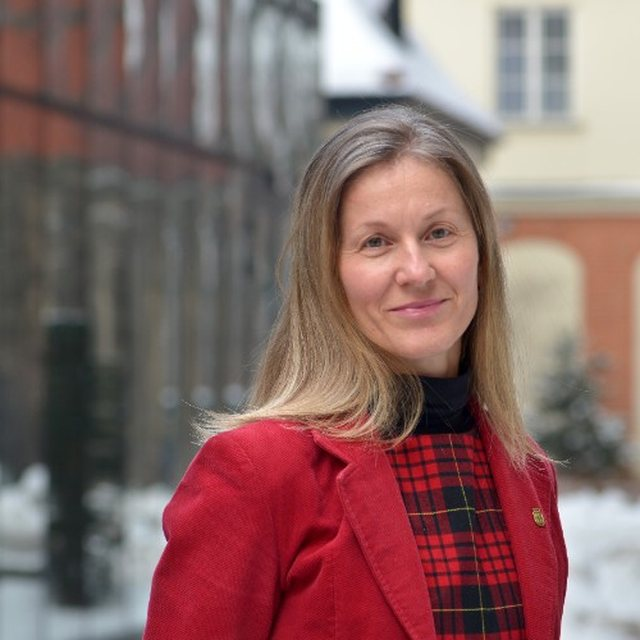
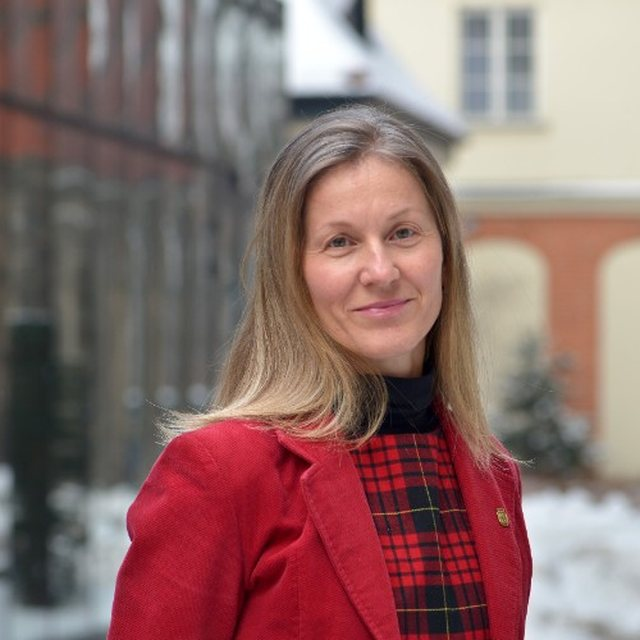
Center two portraits and add Aleksandra Szewczyk from Foton-OZE.

diff --git a/js/search-index.js b/js/search-index.js
@@ -1,1 +1,1 @@
-window.LIGHT_INDEX = [{"lang": "pl", "title": "LIGHT", "text": "Strona główna projektu", "url": "index.html"}, {"lang": "pl", "title": "O projekcie", "text": "Wyzwania, rozwiązanie, dane, budżet, czas trwania", "url": "o-projekcie.html"}, {"lang": "pl", "title": "Laboratoria miejskie", "text": "Kartuzy Lund Innsbruck", "url": "laboratoria.html"}, {"lang": "pl", "title": "Kartuzy", "text": "Renowacja energetyczna błękitno-zielona infrastruktura", "url": "laboratorium-kartuzy.html"}, {"lang": "pl", "title": "Lund", "text": "Zagęszczanie energia rozwiązania bezemisyjne", "url": "laboratorium-lund.html"}, {"lang": "pl", "title": "Innsbruck", "text": "Wirtualne laboratorium światło dzienne hałas powietrze", "url": "laboratorium-innsbruck.html"}, {"lang": "pl", "title": "Aktualności", "text": "Spotkania badania warsztaty rezultaty Lund Martigny inauguracja", "url": "aktualnosci.html"}, {"lang": "pl", "title": "Spotkanie konsorcjum w Lund", "text": "27–30 września 2026 DALEC Lund", "url": "aktualnosci/lund.html"}, {"lang": "pl", "title": "Drony i model 3D Martigny", "text": "fotogrametria IDIAP Roman Ruczyński Nikodem Derengowski", "url": "aktualnosci/martigny.html"}, {"lang": "pl", "title": "PG inauguruje projekt LIGHT", "text": "10 lutego 2026 inauguracja Wydział Architektury Mikielewicz Szczepański Krośnicka NCBR DUT", "url": "aktualnosci/inauguracja.html"}, {"lang": "pl", "title": "Relacje ze spotkań konsorcjum", "text": "Przykładowy wpis spotkania partnerzy", "url": "aktualnosci/spotkania.html"}, {"lang": "pl", "title": "Badania w terenie i wizyty studyjne", "text": "Przykładowy wpis Kartuzy Lund", "url": "aktualnosci/badania.html"}, {"lang": "pl", "title": "Warsztaty i udział mieszkańców", "text": "Przykładowy wpis samorząd społeczność", "url": "aktualnosci/warsztaty.html"}, {"lang": "pl", "title": "Postępy prac nad narzędziami cyfrowymi", "text": "CitySim DALEC światło komfort", "url": "aktualnosci/narzedzia.html"}, {"lang": "pl", "title": "Rezultaty i narzędzia", "text": "Wytyczne CitySim DALEC oś czasu", "url": "rezultaty.html"}, {"lang": "pl", "title": "Do pobrania", "text": "Raporty wytyczne prezentacje materiały", "url": "do-pobrania.html"}, {"lang": "pl", "title": "Partnerzy", "text": "Konsorcjum Politechnika Gdańska Idiap Lund Innsbruck", "url": "partnerzy.html"}, {"lang": "pl", "title": "Zespół", "text": "Justyna Martyniuk-Pęczek Dubon Rodrigue Marie-Claude Dubois Jérôme Kämpf Olga Martyniuk Natalia Sokół Maciej Tankiewicz Przemysław Kluz David Geisler-Moroder Nikodem Derengowski Roman Ruczyński Izabela Mironowicz Anna Zackiewicz Niko Gentile Natalia Lekner Anna Wojewnik-Filipkowska Ewa Patyk Aleksandra Koszarek-Cyra", "url": "zespol.html"}, {"lang": "pl", "title": "Kontakt", "text": "Justyna Martyniuk-Pęczek juspecze@pg.edu.pl", "url": "kontakt.html"}, {"lang": "en", "title": "LIGHT", "text": "Project home", "url": "en/index.html"}, {"lang": "en", "title": "About the project", "text": "Challenges solution facts budget duration", "url": "en/about.html"}, {"lang": "en", "title": "Living labs", "text": "Kartuzy Lund Innsbruck", "url": "en/living-labs.html"}, {"lang": "en", "title": "Kartuzy", "text": "Energy renovation blue-green infrastructure", "url": "en/lab-kartuzy.html"}, {"lang": "en", "title": "Lund", "text": "Densification energy zero-emission", "url": "en/lab-lund.html"}, {"lang": "en", "title": "Innsbruck", "text": "Virtual living lab daylight noise air", "url": "en/lab-innsbruck.html"}, {"lang": "en", "title": "News", "text": "Meetings fieldwork workshops results Lund Martigny launch", "url": "en/news.html"}, {"lang": "en", "title": "Consortium meeting in Lund", "text": "27–30 September 2026 DALEC Lund", "url": "en/news/lund.html"}, {"lang": "en", "title": "Drones and a 3D model of Martigny", "text": "photogrammetry Idiap Roman Ruczyński Nikodem Derengowski", "url": "en/news/martigny.html"}, {"lang": "en", "title": "Gdańsk Tech launches LIGHT", "text": "10 February 2026 inauguration Faculty of Architecture Mikielewicz Szczepański Krośnicka NCBR DUT", "url": "en/news/inauguration.html"}, {"lang": "en", "title": "Consortium meetings", "text": "Sample story partners", "url": "en/news/meetings.html"}, {"lang": "en", "title": "Fieldwork and study visits", "text": "Sample story Kartuzy Lund", "url": "en/news/fieldwork.html"}, {"lang": "en", "title": "Workshops and residents", "text": "Sample story community", "url": "en/news/workshops.html"}, {"lang": "en", "title": "Progress on the digital tools", "text": "CitySim DALEC daylight comfort", "url": "en/news/tools.html"}, {"lang": "en", "title": "Results and tools", "text": "Guidelines CitySim DALEC timeline", "url": "en/results.html"}, {"lang": "en", "title": "Downloads", "text": "Reports guidelines slides graphics", "url": "en/downloads.html"}, {"lang": "en", "title": "Partners", "text": "Consortium Gdańsk Tech Idiap Lund Innsbruck", "url": "en/partners.html"}, {"lang": "en", "title": "Team", "text": "Justyna Martyniuk-Pęczek Dubon Rodrigue Marie-Claude Dubois Jérôme Kämpf Olga Martyniuk Natalia Sokół Maciej Tankiewicz Przemysław Kluz David Geisler-Moroder Nikodem Derengowski Roman Ruczyński Izabela Mironowicz Anna Zackiewicz Niko Gentile Natalia Lekner Anna Wojewnik-Filipkowska Ewa Patyk Aleksandra Koszarek-Cyra", "url": "en/team.html"}, {"lang": "en", "title": "Contact", "text": "Justyna Martyniuk-Pęczek juspecze@pg.edu.pl", "url": "en/contact.html"}];
+window.LIGHT_INDEX = [{"lang": "pl", "title": "LIGHT", "text": "Strona główna projektu", "url": "index.html"}, {"lang": "pl", "title": "O projekcie", "text": "Wyzwania, rozwiązanie, dane, budżet, czas trwania", "url": "o-projekcie.html"}, {"lang": "pl", "title": "Laboratoria miejskie", "text": "Kartuzy Lund Innsbruck", "url": "laboratoria.html"}, {"lang": "pl", "title": "Kartuzy", "text": "Renowacja energetyczna błękitno-zielona infrastruktura", "url": "laboratorium-kartuzy.html"}, {"lang": "pl", "title": "Lund", "text": "Zagęszczanie energia rozwiązania bezemisyjne", "url": "laboratorium-lund.html"}, {"lang": "pl", "title": "Innsbruck", "text": "Wirtualne laboratorium światło dzienne hałas powietrze", "url": "laboratorium-innsbruck.html"}, {"lang": "pl", "title": "Aktualności", "text": "Spotkania badania warsztaty rezultaty Lund Martigny inauguracja", "url": "aktualnosci.html"}, {"lang": "pl", "title": "Spotkanie konsorcjum w Lund", "text": "27–30 września 2026 DALEC Lund", "url": "aktualnosci/lund.html"}, {"lang": "pl", "title": "Drony i model 3D Martigny", "text": "fotogrametria IDIAP Roman Ruczyński Nikodem Derengowski", "url": "aktualnosci/martigny.html"}, {"lang": "pl", "title": "PG inauguruje projekt LIGHT", "text": "10 lutego 2026 inauguracja Wydział Architektury Mikielewicz Szczepański Krośnicka NCBR DUT", "url": "aktualnosci/inauguracja.html"}, {"lang": "pl", "title": "Relacje ze spotkań konsorcjum", "text": "Przykładowy wpis spotkania partnerzy", "url": "aktualnosci/spotkania.html"}, {"lang": "pl", "title": "Badania w terenie i wizyty studyjne", "text": "Przykładowy wpis Kartuzy Lund", "url": "aktualnosci/badania.html"}, {"lang": "pl", "title": "Warsztaty i udział mieszkańców", "text": "Przykładowy wpis samorząd społeczność", "url": "aktualnosci/warsztaty.html"}, {"lang": "pl", "title": "Postępy prac nad narzędziami cyfrowymi", "text": "CitySim DALEC światło komfort", "url": "aktualnosci/narzedzia.html"}, {"lang": "pl", "title": "Rezultaty i narzędzia", "text": "Wytyczne CitySim DALEC oś czasu", "url": "rezultaty.html"}, {"lang": "pl", "title": "Do pobrania", "text": "Raporty wytyczne prezentacje materiały", "url": "do-pobrania.html"}, {"lang": "pl", "title": "Partnerzy", "text": "Konsorcjum Politechnika Gdańska Idiap Lund Innsbruck", "url": "partnerzy.html"}, {"lang": "pl", "title": "Zespół", "text": "Justyna Martyniuk-Pęczek Dubon Rodrigue Marie-Claude Dubois Jérôme Kämpf Olga Martyniuk Natalia Sokół Maciej Tankiewicz Przemysław Kluz David Geisler-Moroder Nikodem Derengowski Roman Ruczyński Izabela Mironowicz Anna Zackiewicz Niko Gentile Natalia Lekner Anna Wojewnik-Filipkowska Ewa Patyk Aleksandra Koszarek-Cyra Aleksandra Szewczyk", "url": "zespol.html"}, {"lang": "pl", "title": "Kontakt", "text": "Justyna Martyniuk-Pęczek juspecze@pg.edu.pl", "url": "kontakt.html"}, {"lang": "en", "title": "LIGHT", "text": "Project home", "url": "en/index.html"}, {"lang": "en", "title": "About the project", "text": "Challenges solution facts budget duration", "url": "en/about.html"}, {"lang": "en", "title": "Living labs", "text": "Kartuzy Lund Innsbruck", "url": "en/living-labs.html"}, {"lang": "en", "title": "Kartuzy", "text": "Energy renovation blue-green infrastructure", "url": "en/lab-kartuzy.html"}, {"lang": "en", "title": "Lund", "text": "Densification energy zero-emission", "url": "en/lab-lund.html"}, {"lang": "en", "title": "Innsbruck", "text": "Virtual living lab daylight noise air", "url": "en/lab-innsbruck.html"}, {"lang": "en", "title": "News", "text": "Meetings fieldwork workshops results Lund Martigny launch", "url": "en/news.html"}, {"lang": "en", "title": "Consortium meeting in Lund", "text": "27–30 September 2026 DALEC Lund", "url": "en/news/lund.html"}, {"lang": "en", "title": "Drones and a 3D model of Martigny", "text": "photogrammetry Idiap Roman Ruczyński Nikodem Derengowski", "url": "en/news/martigny.html"}, {"lang": "en", "title": "Gdańsk Tech launches LIGHT", "text": "10 February 2026 inauguration Faculty of Architecture Mikielewicz Szczepański Krośnicka NCBR DUT", "url": "en/news/inauguration.html"}, {"lang": "en", "title": "Consortium meetings", "text": "Sample story partners", "url": "en/news/meetings.html"}, {"lang": "en", "title": "Fieldwork and study visits", "text": "Sample story Kartuzy Lund", "url": "en/news/fieldwork.html"}, {"lang": "en", "title": "Workshops and residents", "text": "Sample story community", "url": "en/news/workshops.html"}, {"lang": "en", "title": "Progress on the digital tools", "text": "CitySim DALEC daylight comfort", "url": "en/news/tools.html"}, {"lang": "en", "title": "Results and tools", "text": "Guidelines CitySim DALEC timeline", "url": "en/results.html"}, {"lang": "en", "title": "Downloads", "text": "Reports guidelines slides graphics", "url": "en/downloads.html"}, {"lang": "en", "title": "Partners", "text": "Consortium Gdańsk Tech Idiap Lund Innsbruck", "url": "en/partners.html"}, {"lang": "en", "title": "Team", "text": "Justyna Martyniuk-Pęczek Dubon Rodrigue Marie-Claude Dubois Jérôme Kämpf Olga Martyniuk Natalia Sokół Maciej Tankiewicz Przemysław Kluz David Geisler-Moroder Nikodem Derengowski Roman Ruczyński Izabela Mironowicz Anna Zackiewicz Niko Gentile Natalia Lekner Anna Wojewnik-Filipkowska Ewa Patyk Aleksandra Koszarek-Cyra Aleksandra Szewczyk", "url": "en/team.html"}, {"lang": "en", "title": "Contact", "text": "Justyna Martyniuk-Pęczek juspecze@pg.edu.pl", "url": "en/contact.html"}];

diff --git a/zespol.html b/zespol.html
@@ -65,7 +65,7 @@
   </header>
   <nav class="crumbs" aria-label="Ścieżka"><div class="wrap"><ol><li><a href="index.html">LIGHT</a></li><li>Zespół</li></ol></div></nav>
   <div class="wrap page-title"><h1>Zespół</h1></div>
-  <div class="wrap"><article class="prose" id="tresc"><ul class="team-list"><li class="team-card"><img class="avatar" src="img/team/marie-claude-dubois.jpg" alt=""><div><h2><a href="https://portal.research.lu.se/en/persons/marie-claude-dubois/">dr inż. Marie-Claude Dubois</a></h2><p class="org">Uniwersytet w Lund</p></div></li><li class="team-card"><img class="avatar" src="img/team/jerome-kampf.jpg" alt=""><div><h2><a href="https://www.idiap.ch/~jkaempf/">prof. dr inż. Jérôme Kämpf</a></h2><p class="org">Idiap Research Institute</p></div></li><li class="team-card"><img class="avatar" src="img/team/justyna-martyniuk-peczek.jpg" alt=""><div><h2><a href="https://pg.edu.pl/p/justyna-martyniuk-peczek-19369">prof. dr hab. inż. arch. Justyna Martyniuk-Pęczek</a></h2><p class="org">Politechnika Gdańska</p></div></li><li class="team-card"><span class="avatar" aria-hidden="true">IM</span><div><h2><a href="https://pg.edu.pl/p/izabela-mironowicz-880097">dr hab. inż. arch. Izabela Mironowicz, prof. uczelni</a></h2><p class="org">Politechnika Gdańska</p></div></li><li class="team-card"><img class="avatar" src="img/team/maciej-tankiewicz.jpg" alt=""><div><h2><a href="https://informator.gumed.edu.pl/259">dr hab. inż. Maciej Tankiewicz, prof. uczelni</a></h2><p class="org">Gdański Uniwersytet Medyczny</p></div></li><li class="team-card"><img class="avatar" src="img/team/anna-wojewnik-filipkowska.jpg" alt=""><div><h2><a href="https://sd.ug.edu.pl/node/791">dr hab. Anna Wojewnik-Filipkowska, prof. UG</a></h2><p class="org">Uniwersytet Gdański</p></div></li><li class="team-card"><img class="avatar" src="img/team/nikodem-derengowski.jpg" alt=""><div><h2><a href="https://orcid.org/0009-0001-9071-8010">dr inż. Nikodem Derengowski</a></h2><p class="org">Politechnika Gdańska</p></div></li><li class="team-card"><img class="avatar" src="img/team/david-geisler-moroder.jpg" alt=""><div><h2><a href="https://www.uibk.ac.at/en/energy-efficient-building/about-us/staff/david-geisler-moroder/">dr inż. David Geisler-Moroder</a></h2><p class="org">Uniwersytet w Innsbrucku</p></div></li><li class="team-card"><span class="avatar" aria-hidden="true">NG</span><div><h2><a href="https://portal.research.lu.se/en/persons/niko-gentile/">dr inż. Niko Gentile</a></h2><p class="org">Uniwersytet w Lund</p></div></li><li class="team-card"><img class="avatar" src="img/team/aleksandra-koszarek-cyra.jpg" alt=""><div><h2><a href="https://old.wzr.ug.edu.pl/wydzial/index.php?prac=845&str=121">dr inż. Aleksandra Koszarek-Cyra</a></h2><p class="org">Uniwersytet Gdański</p></div></li><li class="team-card"><img class="avatar" src="img/team/olga-martyniuk.jpg" alt=""><div><h2><a href="https://repozytorium.bg.ug.edu.pl/info/author/UOG445c047d26c8486ba9cb9ef938330fe3/">dr Olga Martyniuk</a></h2><p class="org">Uniwersytet Gdański</p></div></li><li class="team-card"><img class="avatar" src="img/team/dubon-rodrigue.jpg" alt=""><div><h2><a href="https://www.idiap.ch/en/people/dubon-rodrigue-2064">dr inż. Dubon Rodrigue</a></h2><p class="org">Idiap Research Institute</p></div></li><li class="team-card"><img class="avatar" src="img/team/roman-ruczynski.jpg" alt=""><div><h2><a href="https://pg.edu.pl/p/roman-ruczynski-8644">dr inż. arch. Roman Ruczyński</a></h2><p class="org">Politechnika Gdańska</p></div></li><li class="team-card"><img class="avatar" src="img/team/natalia-sokol.jpg" alt=""><div><h2><a href="https://pg.edu.pl/p/natalia-sokol-944955">dr inż. Natalia Sokół</a></h2><p class="org">Politechnika Gdańska</p></div></li><li class="team-card"><img class="avatar" src="img/team/przemyslaw-kluz.jpg" alt=""><div><h2><a href="https://www.kongresobywatelski.pl/osoby/kluz-przemyslaw/">Przemysław Kluz</a></h2><p class="org">Gdańska Fundacja Innowacji Społecznych</p></div></li><li class="team-card"><img class="avatar" src="img/team/natalia-lekner.jpg" alt=""><div><h2><a href="https://kartuzy.pl/">Natalia Lekner</a></h2><p class="org">Gmina Kartuzy</p></div></li><li class="team-card"><span class="avatar" aria-hidden="true">EP</span><div><h2><a href="https://gfis.pl/">Ewa Patyk</a></h2><p class="org">Gdańska Fundacja Innowacji Społecznych</p></div></li><li class="team-card"><span class="avatar" aria-hidden="true">AZ</span><div><h2><a href="https://pg.edu.pl/p/anna-zackiewicz-1298558">mgr inż. Anna Zackiewicz</a></h2><p class="org">Politechnika Gdańska</p></div></li></ul><p class="note">Lista może się jeszcze powiększyć. Kolejne osoby dopiszemy razem ze zdjęciem i instytucją.</p></article></div>
+  <div class="wrap"><article class="prose" id="tresc"><ul class="team-list"><li class="team-card"><img class="avatar" src="img/team/marie-claude-dubois.jpg" alt=""><div><h2><a href="https://portal.research.lu.se/en/persons/marie-claude-dubois/">dr inż. Marie-Claude Dubois</a></h2><p class="org">Uniwersytet w Lund</p></div></li><li class="team-card"><img class="avatar" src="img/team/jerome-kampf.jpg" alt=""><div><h2><a href="https://www.idiap.ch/~jkaempf/">prof. dr inż. Jérôme Kämpf</a></h2><p class="org">Idiap Research Institute</p></div></li><li class="team-card"><img class="avatar" src="img/team/justyna-martyniuk-peczek.jpg" alt=""><div><h2><a href="https://pg.edu.pl/p/justyna-martyniuk-peczek-19369">prof. dr hab. inż. arch. Justyna Martyniuk-Pęczek</a></h2><p class="org">Politechnika Gdańska</p></div></li><li class="team-card"><span class="avatar" aria-hidden="true">IM</span><div><h2><a href="https://pg.edu.pl/p/izabela-mironowicz-880097">dr hab. inż. arch. Izabela Mironowicz, prof. uczelni</a></h2><p class="org">Politechnika Gdańska</p></div></li><li class="team-card"><img class="avatar" src="img/team/maciej-tankiewicz.jpg" alt=""><div><h2><a href="https://informator.gumed.edu.pl/259">dr hab. inż. Maciej Tankiewicz, prof. uczelni</a></h2><p class="org">Gdański Uniwersytet Medyczny</p></div></li><li class="team-card"><img class="avatar" src="img/team/anna-wojewnik-filipkowska.jpg" alt=""><div><h2><a href="https://sd.ug.edu.pl/node/791">dr hab. Anna Wojewnik-Filipkowska, prof. UG</a></h2><p class="org">Uniwersytet Gdański</p></div></li><li class="team-card"><img class="avatar" src="img/team/nikodem-derengowski.jpg" alt=""><div><h2><a href="https://orcid.org/0009-0001-9071-8010">dr inż. Nikodem Derengowski</a></h2><p class="org">Politechnika Gdańska</p></div></li><li class="team-card"><img class="avatar" src="img/team/david-geisler-moroder.jpg" alt=""><div><h2><a href="https://www.uibk.ac.at/en/energy-efficient-building/about-us/staff/david-geisler-moroder/">dr inż. David Geisler-Moroder</a></h2><p class="org">Uniwersytet w Innsbrucku</p></div></li><li class="team-card"><span class="avatar" aria-hidden="true">NG</span><div><h2><a href="https://portal.research.lu.se/en/persons/niko-gentile/">dr inż. Niko Gentile</a></h2><p class="org">Uniwersytet w Lund</p></div></li><li class="team-card"><img class="avatar" src="img/team/olga-martyniuk.jpg" alt=""><div><h2><a href="https://repozytorium.bg.ug.edu.pl/info/author/UOG445c047d26c8486ba9cb9ef938330fe3/">dr Olga Martyniuk</a></h2><p class="org">Uniwersytet Gdański</p></div></li><li class="team-card"><img class="avatar" src="img/team/dubon-rodrigue.jpg" alt=""><div><h2><a href="https://www.idiap.ch/en/people/dubon-rodrigue-2064">dr inż. Dubon Rodrigue</a></h2><p class="org">Idiap Research Institute</p></div></li><li class="team-card"><img class="avatar" src="img/team/roman-ruczynski.jpg" alt=""><div><h2><a href="https://pg.edu.pl/p/roman-ruczynski-8644">dr inż. arch. Roman Ruczyński</a></h2><p class="org">Politechnika Gdańska</p></div></li><li class="team-card"><img class="avatar" src="img/team/natalia-sokol.jpg" alt=""><div><h2><a href="https://pg.edu.pl/p/natalia-sokol-944955">dr inż. Natalia Sokół</a></h2><p class="org">Politechnika Gdańska</p></div></li><li class="team-card"><img class="avatar" src="img/team/aleksandra-koszarek-cyra.jpg" alt=""><div><h2><a href="https://old.wzr.ug.edu.pl/wydzial/index.php?prac=845&str=121">dr inż. Aleksandra Koszarek-Cyra Aleksandra Szewczyk</a></h2><p class="org">Uniwersytet Gdański</p></div></li><li class="team-card"><img class="avatar" src="img/team/przemyslaw-kluz.jpg" alt=""><div><h2><a href="https://www.kongresobywatelski.pl/osoby/kluz-przemyslaw/">Przemysław Kluz</a></h2><p class="org">Gdańska Fundacja Innowacji Społecznych</p></div></li><li class="team-card"><img class="avatar" src="img/team/natalia-lekner.jpg" alt=""><div><h2><a href="https://kartuzy.pl/">Natalia Lekner</a></h2><p class="org">Gmina Kartuzy</p></div></li><li class="team-card"><span class="avatar" aria-hidden="true">EP</span><div><h2><a href="https://gfis.pl/">Ewa Patyk</a></h2><p class="org">Gdańska Fundacja Innowacji Społecznych</p></div></li><li class="team-card"><img class="avatar" src="img/team/aleksandra-szewczyk.jpg" alt=""><div><h2><a href="https://foton-oze.pl/zespol/">mgr inż. Aleksandra Szewczyk</a></h2><p class="org">Foton-OZE</p></div></li><li class="team-card"><span class="avatar" aria-hidden="true">AZ</span><div><h2><a href="https://pg.edu.pl/p/anna-zackiewicz-1298558">mgr inż. Anna Zackiewicz</a></h2><p class="org">Politechnika Gdańska</p></div></li></ul><p class="note">Lista może się jeszcze powiększyć. Kolejne osoby dopiszemy razem ze zdjęciem i instytucją.</p></article></div>
   <footer class="site-footer"><div class="wrap footer-grid">
         <div><h2>LIGHT</h2><p>Looking for Integrated Solutions for Healthy PEDs</p><p>Projekt koordynowany przez Politechnikę Gdańską.</p></div>
         <div><h2>Kontakt</h2><p>prof. dr hab. inż. arch. Justyna Martyniuk-Pęczek</p><p><a href="mailto:juspecze@pg.edu.pl">juspecze@pg.edu.pl</a></p><p>ul. Gabriela Narutowicza 11/12<br>80-233 Gdańsk</p></div>

diff --git a/en/team.html b/en/team.html
@@ -65,7 +65,7 @@
   </header>
   <nav class="crumbs" aria-label="Breadcrumb"><div class="wrap"><ol><li><a href="../en/index.html">LIGHT</a></li><li>Team</li></ol></div></nav>
   <div class="wrap page-title"><h1>Team</h1></div>
-  <div class="wrap"><article class="prose" id="tresc"><ul class="team-list"><li class="team-card"><img class="avatar" src="../img/team/marie-claude-dubois.jpg" alt=""><div><h2><a href="https://portal.research.lu.se/en/persons/marie-claude-dubois/">Prof. Marie-Claude Dubois</a></h2><p class="org">Lund University</p></div></li><li class="team-card"><img class="avatar" src="../img/team/jerome-kampf.jpg" alt=""><div><h2><a href="https://www.idiap.ch/~jkaempf/">Prof. Jérôme Kämpf</a></h2><p class="org">Idiap Research Institute</p></div></li><li class="team-card"><img class="avatar" src="../img/team/justyna-martyniuk-peczek.jpg" alt=""><div><h2><a href="https://pg.edu.pl/p/justyna-martyniuk-peczek-19369">Prof. Justyna Martyniuk-Pęczek</a></h2><p class="org">Gdańsk University of Technology</p></div></li><li class="team-card"><span class="avatar" aria-hidden="true">IM</span><div><h2><a href="https://pg.edu.pl/p/izabela-mironowicz-880097">Prof. Izabela Mironowicz</a></h2><p class="org">Gdańsk University of Technology</p></div></li><li class="team-card"><img class="avatar" src="../img/team/maciej-tankiewicz.jpg" alt=""><div><h2><a href="https://informator.gumed.edu.pl/259">Prof. Maciej Tankiewicz</a></h2><p class="org">Medical University of Gdańsk</p></div></li><li class="team-card"><img class="avatar" src="../img/team/anna-wojewnik-filipkowska.jpg" alt=""><div><h2><a href="https://sd.ug.edu.pl/node/791">Prof. Anna Wojewnik-Filipkowska</a></h2><p class="org">University of Gdańsk</p></div></li><li class="team-card"><img class="avatar" src="../img/team/nikodem-derengowski.jpg" alt=""><div><h2><a href="https://orcid.org/0009-0001-9071-8010">Dr. Nikodem Derengowski</a></h2><p class="org">Gdańsk University of Technology</p></div></li><li class="team-card"><img class="avatar" src="../img/team/david-geisler-moroder.jpg" alt=""><div><h2><a href="https://www.uibk.ac.at/en/energy-efficient-building/about-us/staff/david-geisler-moroder/">Dr. David Geisler-Moroder</a></h2><p class="org">Universität Innsbruck</p></div></li><li class="team-card"><span class="avatar" aria-hidden="true">NG</span><div><h2><a href="https://portal.research.lu.se/en/persons/niko-gentile/">Dr. Niko Gentile</a></h2><p class="org">Lund University</p></div></li><li class="team-card"><img class="avatar" src="../img/team/aleksandra-koszarek-cyra.jpg" alt=""><div><h2><a href="https://old.wzr.ug.edu.pl/wydzial/index.php?prac=845&str=121">Dr. Aleksandra Koszarek-Cyra</a></h2><p class="org">University of Gdańsk</p></div></li><li class="team-card"><img class="avatar" src="../img/team/olga-martyniuk.jpg" alt=""><div><h2><a href="https://repozytorium.bg.ug.edu.pl/info/author/UOG445c047d26c8486ba9cb9ef938330fe3/">Dr. Olga Martyniuk</a></h2><p class="org">University of Gdańsk</p></div></li><li class="team-card"><img class="avatar" src="../img/team/dubon-rodrigue.jpg" alt=""><div><h2><a href="https://www.idiap.ch/en/people/dubon-rodrigue-2064">Dr. Dubon Rodrigue</a></h2><p class="org">Idiap Research Institute</p></div></li><li class="team-card"><img class="avatar" src="../img/team/roman-ruczynski.jpg" alt=""><div><h2><a href="https://pg.edu.pl/p/roman-ruczynski-8644">Dr. Roman Ruczyński</a></h2><p class="org">Gdańsk University of Technology</p></div></li><li class="team-card"><img class="avatar" src="../img/team/natalia-sokol.jpg" alt=""><div><h2><a href="https://pg.edu.pl/p/natalia-sokol-944955">Dr. Natalia Sokół</a></h2><p class="org">Gdańsk University of Technology</p></div></li><li class="team-card"><img class="avatar" src="../img/team/przemyslaw-kluz.jpg" alt=""><div><h2><a href="https://www.kongresobywatelski.pl/osoby/kluz-przemyslaw/">Przemysław Kluz</a></h2><p class="org">Gdańsk Foundation for Social Innovation</p></div></li><li class="team-card"><img class="avatar" src="../img/team/natalia-lekner.jpg" alt=""><div><h2><a href="https://kartuzy.pl/">Natalia Lekner</a></h2><p class="org">Municipality of Kartuzy</p></div></li><li class="team-card"><span class="avatar" aria-hidden="true">EP</span><div><h2><a href="https://gfis.pl/">Ewa Patyk</a></h2><p class="org">Gdańsk Foundation for Social Innovation</p></div></li><li class="team-card"><span class="avatar" aria-hidden="true">AZ</span><div><h2><a href="https://pg.edu.pl/p/anna-zackiewicz-1298558">Anna Zackiewicz</a></h2><p class="org">Gdańsk University of Technology</p></div></li></ul><p class="note">The list can still grow. Further people will be added with a photo and an organisation.</p></article></div>
+  <div class="wrap"><article class="prose" id="tresc"><ul class="team-list"><li class="team-card"><img class="avatar" src="../img/team/marie-claude-dubois.jpg" alt=""><div><h2><a href="https://portal.research.lu.se/en/persons/marie-claude-dubois/">Prof. Marie-Claude Dubois</a></h2><p class="org">Lund University</p></div></li><li class="team-card"><img class="avatar" src="../img/team/jerome-kampf.jpg" alt=""><div><h2><a href="https://www.idiap.ch/~jkaempf/">Prof. Jérôme Kämpf</a></h2><p class="org">Idiap Research Institute</p></div></li><li class="team-card"><img class="avatar" src="../img/team/justyna-martyniuk-peczek.jpg" alt=""><div><h2><a href="https://pg.edu.pl/p/justyna-martyniuk-peczek-19369">Prof. Justyna Martyniuk-Pęczek</a></h2><p class="org">Gdańsk University of Technology</p></div></li><li class="team-card"><span class="avatar" aria-hidden="true">IM</span><div><h2><a href="https://pg.edu.pl/p/izabela-mironowicz-880097">Prof. Izabela Mironowicz</a></h2><p class="org">Gdańsk University of Technology</p></div></li><li class="team-card"><img class="avatar" src="../img/team/maciej-tankiewicz.jpg" alt=""><div><h2><a href="https://informator.gumed.edu.pl/259">Prof. Maciej Tankiewicz</a></h2><p class="org">Medical University of Gdańsk</p></div></li><li class="team-card"><img class="avatar" src="../img/team/anna-wojewnik-filipkowska.jpg" alt=""><div><h2><a href="https://sd.ug.edu.pl/node/791">Prof. Anna Wojewnik-Filipkowska</a></h2><p class="org">University of Gdańsk</p></div></li><li class="team-card"><img class="avatar" src="../img/team/nikodem-derengowski.jpg" alt=""><div><h2><a href="https://orcid.org/0009-0001-9071-8010">Dr. Nikodem Derengowski</a></h2><p class="org">Gdańsk University of Technology</p></div></li><li class="team-card"><img class="avatar" src="../img/team/david-geisler-moroder.jpg" alt=""><div><h2><a href="https://www.uibk.ac.at/en/energy-efficient-building/about-us/staff/david-geisler-moroder/">Dr. David Geisler-Moroder</a></h2><p class="org">Universität Innsbruck</p></div></li><li class="team-card"><span class="avatar" aria-hidden="true">NG</span><div><h2><a href="https://portal.research.lu.se/en/persons/niko-gentile/">Dr. Niko Gentile</a></h2><p class="org">Lund University</p></div></li><li class="team-card"><img class="avatar" src="../img/team/olga-martyniuk.jpg" alt=""><div><h2><a href="https://repozytorium.bg.ug.edu.pl/info/author/UOG445c047d26c8486ba9cb9ef938330fe3/">Dr. Olga Martyniuk</a></h2><p class="org">University of Gdańsk</p></div></li><li class="team-card"><img class="avatar" src="../img/team/dubon-rodrigue.jpg" alt=""><div><h2><a href="https://www.idiap.ch/en/people/dubon-rodrigue-2064">Dr. Dubon Rodrigue</a></h2><p class="org">Idiap Research Institute</p></div></li><li class="team-card"><img class="avatar" src="../img/team/roman-ruczynski.jpg" alt=""><div><h2><a href="https://pg.edu.pl/p/roman-ruczynski-8644">Dr. Roman Ruczyński</a></h2><p class="org">Gdańsk University of Technology</p></div></li><li class="team-card"><img class="avatar" src="../img/team/natalia-sokol.jpg" alt=""><div><h2><a href="https://pg.edu.pl/p/natalia-sokol-944955">Dr. Natalia Sokół</a></h2><p class="org">Gdańsk University of Technology</p></div></li><li class="team-card"><img class="avatar" src="../img/team/aleksandra-koszarek-cyra.jpg" alt=""><div><h2><a href="https://old.wzr.ug.edu.pl/wydzial/index.php?prac=845&str=121">Dr. Aleksandra Koszarek-Cyra Aleksandra Szewczyk</a></h2><p class="org">University of Gdańsk</p></div></li><li class="team-card"><img class="avatar" src="../img/team/przemyslaw-kluz.jpg" alt=""><div><h2><a href="https://www.kongresobywatelski.pl/osoby/kluz-przemyslaw/">Przemysław Kluz</a></h2><p class="org">Gdańsk Foundation for Social Innovation</p></div></li><li class="team-card"><img class="avatar" src="../img/team/natalia-lekner.jpg" alt=""><div><h2><a href="https://kartuzy.pl/">Natalia Lekner</a></h2><p class="org">Municipality of Kartuzy</p></div></li><li class="team-card"><span class="avatar" aria-hidden="true">EP</span><div><h2><a href="https://gfis.pl/">Ewa Patyk</a></h2><p class="org">Gdańsk Foundation for Social Innovation</p></div></li><li class="team-card"><img class="avatar" src="../img/team/aleksandra-szewczyk.jpg" alt=""><div><h2><a href="https://foton-oze.pl/zespol/">Aleksandra Szewczyk</a></h2><p class="org">Foton-OZE</p></div></li><li class="team-card"><span class="avatar" aria-hidden="true">AZ</span><div><h2><a href="https://pg.edu.pl/p/anna-zackiewicz-1298558">Anna Zackiewicz</a></h2><p class="org">Gdańsk University of Technology</p></div></li></ul><p class="note">The list can still grow. Further people will be added with a photo and an organisation.</p></article></div>
   <footer class="site-footer"><div class="wrap footer-grid">
         <div><h2>LIGHT</h2><p>Looking for Integrated Solutions for Healthy PEDs</p><p>Coordinated by Gdańsk University of Technology.</p></div>
         <div><h2>Contact</h2><p>Prof. Justyna Martyniuk-Pęczek, PhD, DSc, Eng., Arch.</p><p><a href="mailto:juspecze@pg.edu.pl">juspecze@pg.edu.pl</a></p><p>ul. Gabriela Narutowicza 11/12<br>80-233 Gdańsk, Poland</p></div>

diff --git a/_build.py b/_build.py
@@ -1140,8 +1140,8 @@ def team_members():
             "url": "https://gfis.pl/",
         },
         {
-            "pl_name": "dr inż. Aleksandra Koszarek-Cyra",
-            "en_name": "Dr. Aleksandra Koszarek-Cyra",
+            "pl_name": "dr inż. Aleksandra Koszarek-Cyra Aleksandra Szewczyk",
+            "en_name": "Dr. Aleksandra Koszarek-Cyra Aleksandra Szewczyk",
             "pl_org": "Uniwersytet Gdański",
             "en_org": "University of Gdańsk",
             "pl_role": "",
@@ -1149,6 +1149,17 @@ def team_members():
             "photo": "img/team/aleksandra-koszarek-cyra.jpg",
             "initials": "AK",
             "url": "https://old.wzr.ug.edu.pl/wydzial/index.php?prac=845&str=121",
+        },
+        {
+            "pl_name": "mgr inż. Aleksandra Szewczyk",
+            "en_name": "Aleksandra Szewczyk",
+            "pl_org": "Foton-OZE",
+            "en_org": "Foton-OZE",
+            "pl_role": "",
+            "en_role": "",
+            "photo": "img/team/aleksandra-szewczyk.jpg",
+            "initials": "AS",
+            "url": "https://foton-oze.pl/zespol/",
         },
     ]
 
@@ -1668,7 +1679,7 @@ INDEX = [
     ("pl", "Rezultaty i narzędzia", "Wytyczne CitySim DALEC oś czasu", "rezultaty.html"),
     ("pl", "Do pobrania", "Raporty wytyczne prezentacje materiały", "do-pobrania.html"),
     ("pl", "Partnerzy", "Konsorcjum Politechnika Gdańska Idiap Lund Innsbruck", "partnerzy.html"),
-    ("pl", "Zespół", "Justyna Martyniuk-Pęczek Dubon Rodrigue Marie-Claude Dubois Jérôme Kämpf Olga Martyniuk Natalia Sokół Maciej Tankiewicz Przemysław Kluz David Geisler-Moroder Nikodem Derengowski Roman Ruczyński Izabela Mironowicz Anna Zackiewicz Niko Gentile Natalia Lekner Anna Wojewnik-Filipkowska Ewa Patyk Aleksandra Koszarek-Cyra", "zespol.html"),
+    ("pl", "Zespół", "Justyna Martyniuk-Pęczek Dubon Rodrigue Marie-Claude Dubois Jérôme Kämpf Olga Martyniuk Natalia Sokół Maciej Tankiewicz Przemysław Kluz David Geisler-Moroder Nikodem Derengowski Roman Ruczyński Izabela Mironowicz Anna Zackiewicz Niko Gentile Natalia Lekner Anna Wojewnik-Filipkowska Ewa Patyk Aleksandra Koszarek-Cyra Aleksandra Szewczyk", "zespol.html"),
     ("pl", "Kontakt", "Justyna Martyniuk-Pęczek juspecze@pg.edu.pl", "kontakt.html"),
     ("en", "LIGHT", "Project home", "en/index.html"),
     ("en", "About the project", "Challenges solution facts budget duration", "en/about.html"),
@@ -1687,7 +1698,7 @@ INDEX = [
     ("en", "Results and tools", "Guidelines CitySim DALEC timeline", "en/results.html"),
     ("en", "Downloads", "Reports guidelines slides graphics", "en/downloads.html"),
     ("en", "Partners", "Consortium Gdańsk Tech Idiap Lund Innsbruck", "en/partners.html"),
-    ("en", "Team", "Justyna Martyniuk-Pęczek Dubon Rodrigue Marie-Claude Dubois Jérôme Kämpf Olga Martyniuk Natalia Sokół Maciej Tankiewicz Przemysław Kluz David Geisler-Moroder Nikodem Derengowski Roman Ruczyński Izabela Mironowicz Anna Zackiewicz Niko Gentile Natalia Lekner Anna Wojewnik-Filipkowska Ewa Patyk Aleksandra Koszarek-Cyra", "en/team.html"),
+    ("en", "Team", "Justyna Martyniuk-Pęczek Dubon Rodrigue Marie-Claude Dubois Jérôme Kämpf Olga Martyniuk Natalia Sokół Maciej Tankiewicz Przemysław Kluz David Geisler-Moroder Nikodem Derengowski Roman Ruczyński Izabela Mironowicz Anna Zackiewicz Niko Gentile Natalia Lekner Anna Wojewnik-Filipkowska Ewa Patyk Aleksandra Koszarek-Cyra Aleksandra Szewczyk", "en/team.html"),
     ("en", "Contact", "Justyna Martyniuk-Pęczek juspecze@pg.edu.pl", "en/contact.html"),
 ]
 
